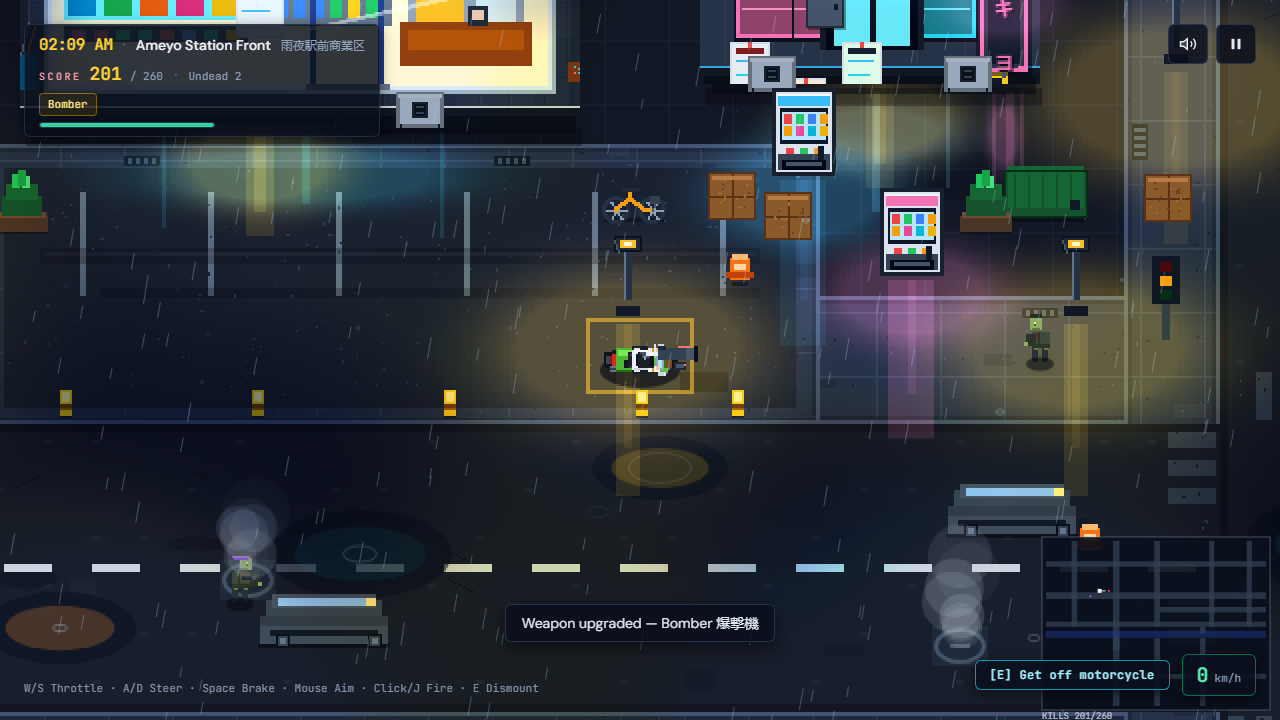
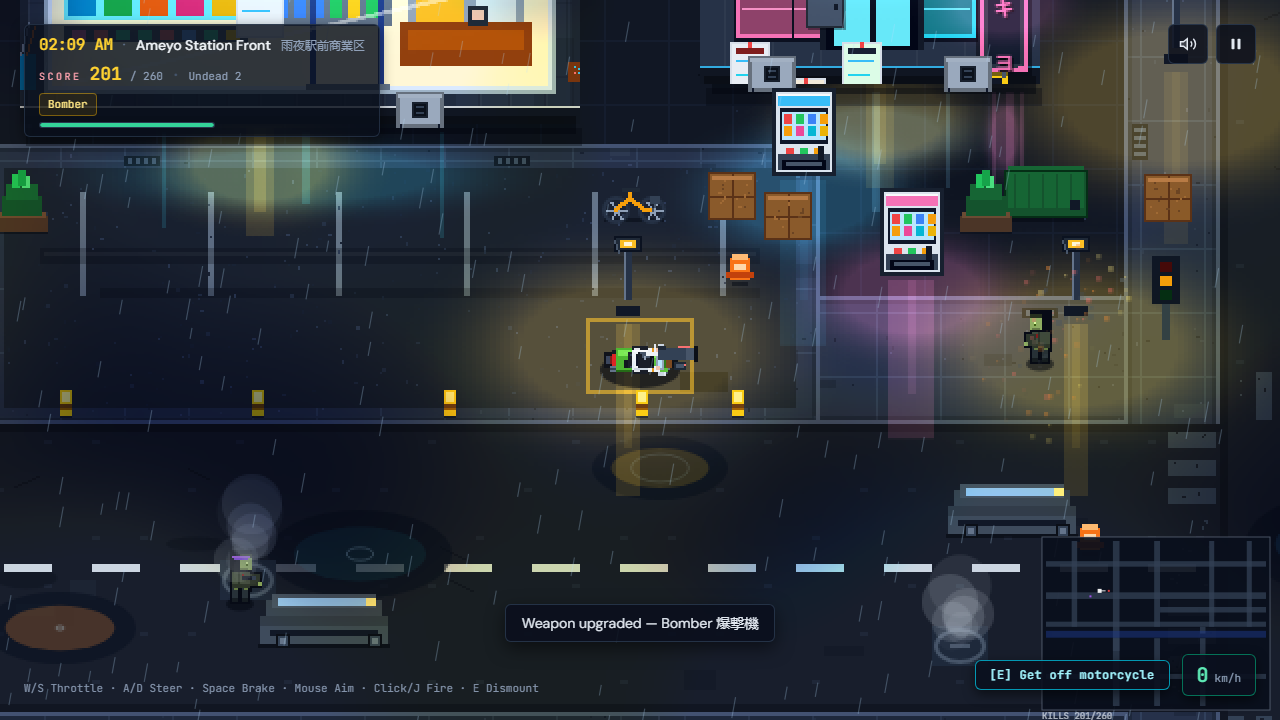
Rename survival mode to Zombie Mode and add zombie outlines
- Title screen, toasts, and deep-link alias now say Zombie Mode
- Zombies render with a tight dark outline for better visibility
- Refresh survival screenshots

Generated with [Devin](https://devin.ai)

diff --git a/src/game/pixelArt.ts b/src/game/pixelArt.ts
@@ -519,6 +519,20 @@ export function drawZombie(ctx: CanvasRenderingContext2D, z: ZombieState, time: 
   const oy = Math.round(y - 25 + Math.abs(walk) * 1.4);
   const reach = z.facing === 'left' ? -lunge : z.facing === 'right' ? lunge : 0;
 
+  // Tight dark outline: silhouette blocks inflated by 1px, drawn first so the
+  // colored parts on top leave a crisp rim that hugs the body.
+  const OUTLINE = '#070b16';
+  const legA0 = Math.round(walk * 2);
+  px(ctx, ox + 3, oy + 18 + Math.max(0, legA0), 5, 9, OUTLINE);
+  px(ctx, ox + 8, oy + 18 + Math.max(0, -legA0), 5, 9, OUTLINE);
+  px(ctx, ox + 3, oy + 10, 11, 11, OUTLINE); // torso
+  const armY0 = z.facing === 'up' ? oy + 10 : oy + 12;
+  const armX0 = z.facing === 'left' ? ox + 1 - reach : z.facing === 'right' ? ox + 13 + reach : ox + 3;
+  const armW0 = z.facing === 'left' || z.facing === 'right' ? 5 : 2;
+  const armH0 = z.facing === 'up' ? 5 : 6;
+  px(ctx, armX0 - 1, armY0 - 1, armW0 + 2, armH0 + 2, OUTLINE);
+  px(ctx, ox + 3, oy, 11, 13, OUTLINE); // head
+
   // Legs
   const legA = Math.round(walk * 2);
   px(ctx, ox + 4, oy + 19 + Math.max(0, legA), 3, 6, pants);

diff --git a/src/game/engine.ts b/src/game/engine.ts
@@ -681,7 +681,7 @@ export class AmeyoEngine {
         this.audio.playExplosion();
       } else if (event.type === 'victory') {
         this.audio.playSurvivalSting('victory');
-        this.showToast(`Survival complete — ${this.survival.score} zombies down`);
+        this.showToast(`Run complete — ${this.survival.score} zombies down`);
       } else if (event.type === 'defeat') {
         this.audio.playSurvivalSting('defeat');
       }
@@ -712,7 +712,7 @@ export class AmeyoEngine {
     if (this.variant === 'survival') {
       const near = findNearestInteractable(this.player, this.moto, INTERACTABLES);
       if (!near || near.kind !== 'motorcycle') {
-        this.showToast(`Survival — ${SURVIVAL_TARGET_SCORE} kills to win · stay moving`);
+        this.showToast(`Zombie Mode — ${SURVIVAL_TARGET_SCORE} kills to win · stay moving`);
         return;
       }
     }

diff --git a/src/components/TitleOverlay.tsx b/src/components/TitleOverlay.tsx
@@ -91,7 +91,7 @@ export const TitleOverlay: React.FC<TitleOverlayProps> = ({
               }}
               className="px-5 py-3 rounded-md bg-rose-500 hover:bg-rose-400 active:translate-y-px text-slate-950 font-display font-semibold text-sm tracking-wide transition-colors cursor-pointer whitespace-nowrap shrink-0 shadow-[0_6px_22px_rgba(244,63,94,0.30)] focus-visible:outline-2 focus-visible:outline-offset-2 focus-visible:outline-rose-300"
             >
-              Survival Mode
+              Zombie Mode
             </button>
 
             <button

diff --git a/src/App.tsx b/src/App.tsx
@@ -56,7 +56,7 @@ export default function App() {
 
     const params = new URLSearchParams(window.location.search);
     if (params.get('autostart') === '1') {
-      engine.startGame(params.get('mode') === 'survival' ? 'survival' : 'exploration');
+      engine.startGame(['survival', 'zombie'].includes(params.get('mode') ?? '') ? 'survival' : 'exploration');
     }
 
     return () => {
